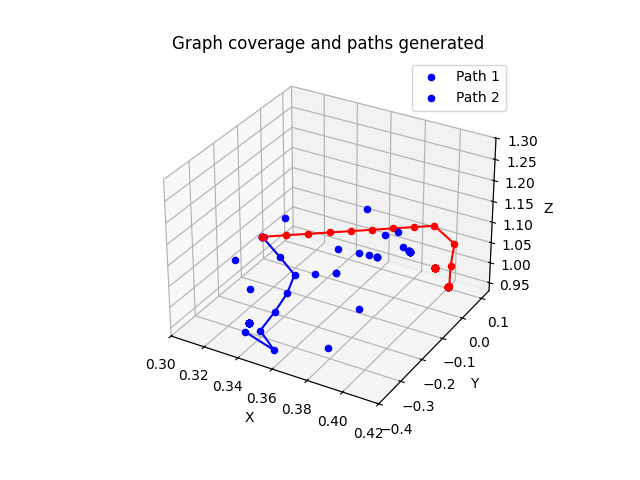
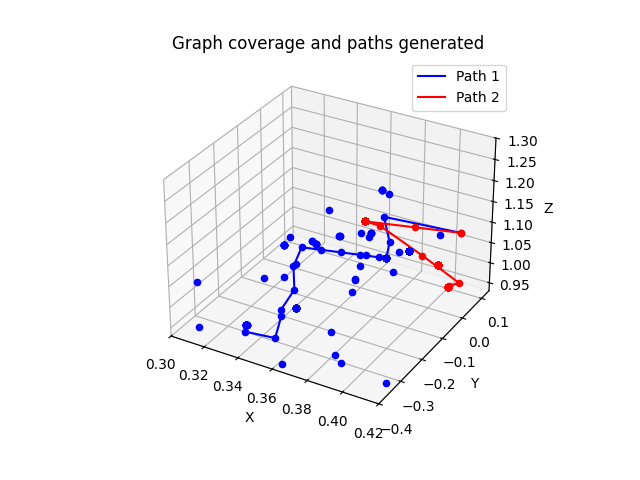
final

diff --git a/path.py b/path.py
@@ -259,14 +259,14 @@ def plot_connected_graphs(G1, G2):
         _, c2 = path1[i+1]
         ax.plot([c1.translation[0], c2.translation[0]], 
                 [c1.translation[1], c2.translation[1]], 
-                [c1.translation[2], c2.translation[2]], 'b', label='Path 1')    
+                [c1.translation[2], c2.translation[2]], 'b')    
 
     for i in range(len(path2)-1):
         _, c1 = path2[i]
         _, c2 = path2[i+1]
         ax.plot([c1.translation[0], c2.translation[0]], 
                 [c1.translation[1], c2.translation[1]], 
-                [c1.translation[2], c2.translation[2]], 'r', label='Path 2')
+                [c1.translation[2], c2.translation[2]], 'r')
 
 
     ax.set_xlabel('X')
@@ -277,7 +277,9 @@ def plot_connected_graphs(G1, G2):
     ax.set_title(f'Graph coverage and paths generated')
 
     # set the legend of the plot to show the labels of the paths
-    ax.legend(['Path 1', 'Path 2'])
+    ax.plot([], [], 'b', label='Path 1')
+    ax.plot([], [], 'r', label='Path 2')
+    ax.legend()
 
     # set the limits of the plot so that it is always in the same scale
     ax.set_xlim([x_min, x_max])
